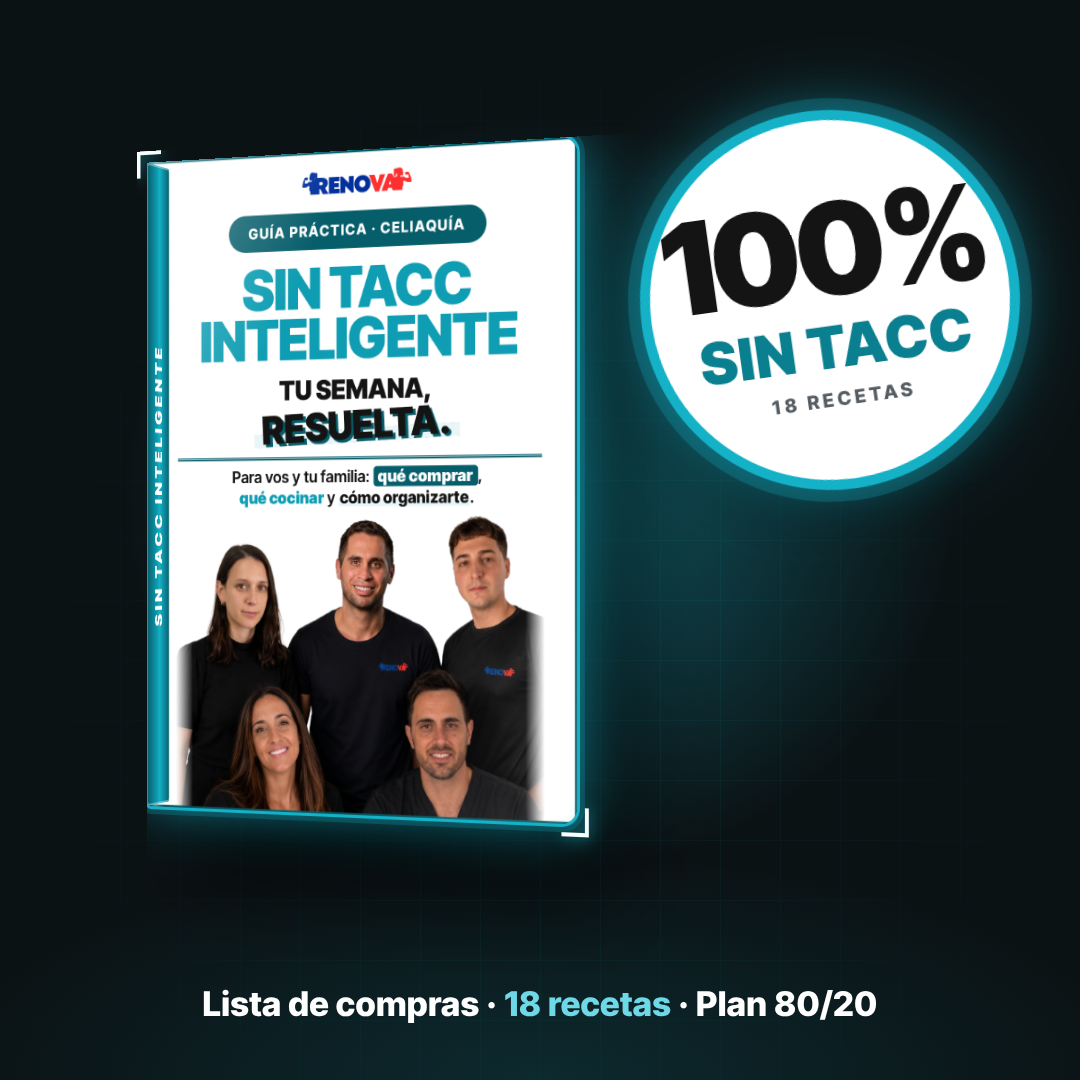
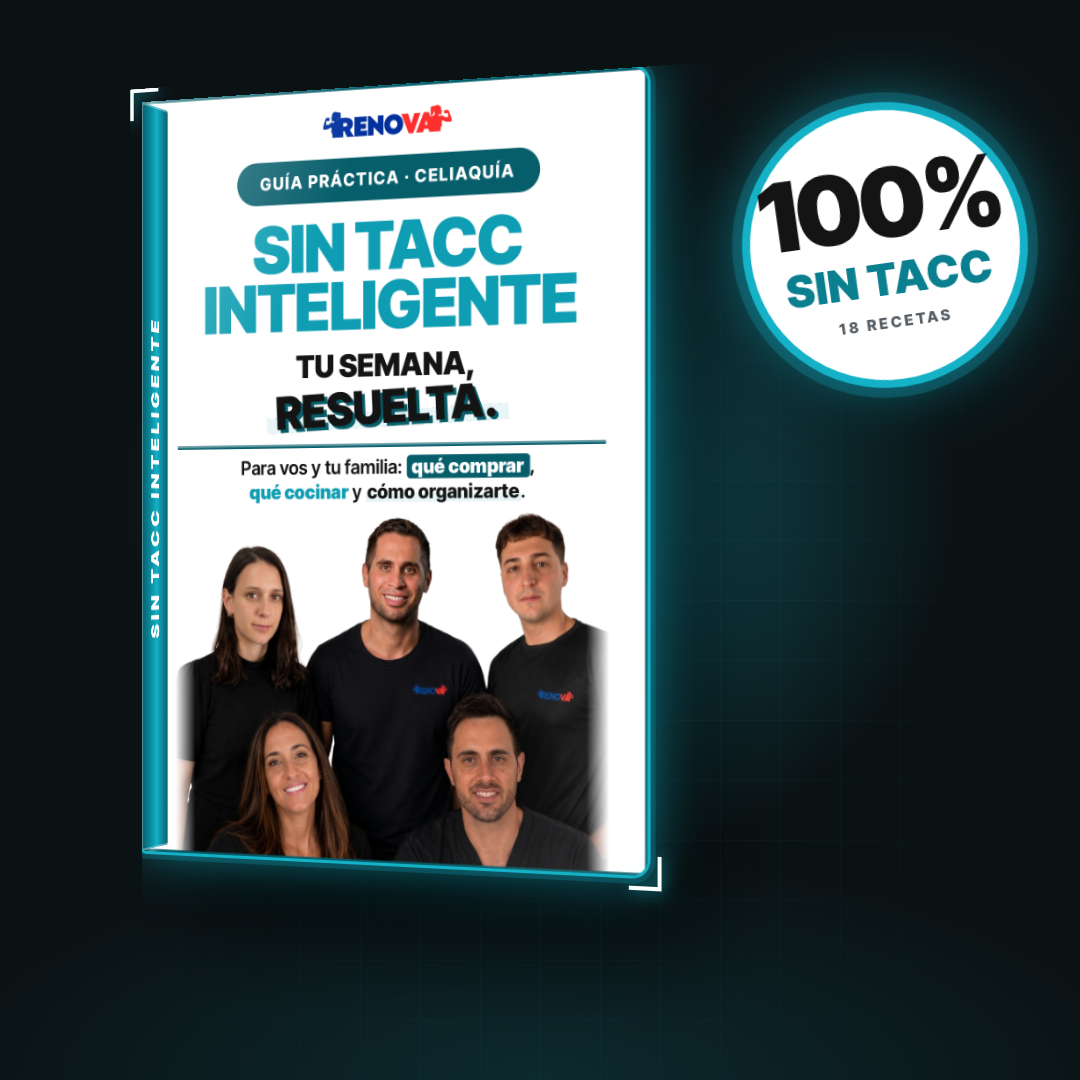
Portada del upsell Sin TACC: sin texto inferior, libro más grande y sello más chico para que no se corte
Claude-Session: https://claude.ai/code/session_016d9STMTFsB819XAn27rxwK

diff --git a/fuentes/landing/mockups/upsell_sintacc.html b/fuentes/landing/mockups/upsell_sintacc.html
@@ -114,12 +114,12 @@ body{width:var(--w);height:var(--h);overflow:hidden;position:relative;
 .cn.a{left:-2.5%;top:-1.8%;border-right:0;border-bottom:0}.cn.b{right:-2.5%;bottom:-1.8%;border-left:0;border-top:0}
 .shadow{position:absolute;height:70px;border-radius:50%;background:radial-gradient(ellipse,rgba(0,0,0,.75),transparent 70%)}
 
-.sello{position:absolute;right:70px;top:120px;width:360px;height:360px;border-radius:50%;z-index:9;
+.sello{position:absolute;right:60px;top:110px;width:270px;height:270px;border-radius:50%;z-index:9;
  background:#fff;display:flex;flex-direction:column;align-items:center;justify-content:center;text-align:center;
- box-shadow:0 0 0 10px #14B1C7,0 0 0 22px rgba(20,177,199,.25),0 0 70px rgba(20,177,199,.8),0 30px 60px rgba(0,0,0,.5);transform:rotate(-8deg)}
-.sello b{display:block;font:900 128px/0.95 InterTightW,sans-serif;color:#141414;letter-spacing:-.04em}
-.sello i{display:block;font:900 58px/1 InterTightW,sans-serif;font-style:normal;color:#0A7F90;letter-spacing:.02em;margin-top:8px}
-.sello small{display:block;margin-top:12px;font:800 19px InterW,sans-serif;letter-spacing:.16em;color:#555C62}
+ box-shadow:0 0 0 8px #14B1C7,0 0 0 18px rgba(20,177,199,.25),0 0 70px rgba(20,177,199,.8),0 30px 60px rgba(0,0,0,.5);transform:rotate(-8deg)}
+.sello b{display:block;font:900 96px/0.95 InterTightW,sans-serif;color:#141414;letter-spacing:-.04em}
+.sello i{display:block;font:900 44px/1 InterTightW,sans-serif;font-style:normal;color:#0A7F90;letter-spacing:.02em;margin-top:8px}
+.sello small{display:block;margin-top:12px;font:800 15px InterW,sans-serif;letter-spacing:.16em;color:#555C62}
 .pie{position:absolute;left:0;right:0;bottom:56px;text-align:center;z-index:9;font:800 34px InterTightW,sans-serif;color:#fff;letter-spacing:.01em}
 .pie span{color:#6FD8E6}
-body{--w:1080px;--h:1080px}</style><div class="grid"></div><div class="st"><div class="shadow" style="left:143.5px;top:795px;width:493.5px"></div><div class="bk" style="left:120px;top:150px;width:470px;height:665px;z-index:1;transform:rotateY(-20deg)"><div class="sp" style="width:47px;--fs:20px"><span>SIN TACC INTELIGENTE</span></div><div class="fr"><img src="pack/tapa_sintacc.png"></div><div class="cn a"></div><div class="cn b"></div></div><div class="sello"><b>100%</b><i>SIN TACC</i><small>18 RECETAS</small></div><div class="pie">Lista de compras · <span>18 recetas</span> · Plan 80/20</div></div>
+body{--w:1080px;--h:1080px}</style><div class="grid"></div><div class="st"><div class="shadow" style="left:137.5px;top:843px;width:577.5px"></div><div class="bk" style="left:110px;top:85px;width:550px;height:778px;z-index:1;transform:rotateY(-20deg)"><div class="sp" style="width:55px;--fs:23px"><span>SIN TACC INTELIGENTE</span></div><div class="fr"><img src="pack/tapa_sintacc.png"></div><div class="cn a"></div><div class="cn b"></div></div><div class="sello"><b>100%</b><i>SIN TACC</i><small>18 RECETAS</small></div></div>

diff --git a/fuentes/landing/mockups/upsell_sintacc.py b/fuentes/landing/mockups/upsell_sintacc.py
@@ -9,18 +9,17 @@ with contextlib.redirect_stdout(io.StringIO()):
     from libros3d import CSS, book   # mismo libro 3D y fondo que el resto de los mockups
 
 EXTRA = """
-.sello{position:absolute;right:70px;top:120px;width:360px;height:360px;border-radius:50%;z-index:9;
+.sello{position:absolute;right:60px;top:110px;width:270px;height:270px;border-radius:50%;z-index:9;
  background:#fff;display:flex;flex-direction:column;align-items:center;justify-content:center;text-align:center;
- box-shadow:0 0 0 10px #14B1C7,0 0 0 22px rgba(20,177,199,.25),0 0 70px rgba(20,177,199,.8),0 30px 60px rgba(0,0,0,.5);transform:rotate(-8deg)}
-.sello b{display:block;font:900 128px/0.95 InterTightW,sans-serif;color:#141414;letter-spacing:-.04em}
-.sello i{display:block;font:900 58px/1 InterTightW,sans-serif;font-style:normal;color:#0A7F90;letter-spacing:.02em;margin-top:8px}
-.sello small{display:block;margin-top:12px;font:800 19px InterW,sans-serif;letter-spacing:.16em;color:#555C62}
+ box-shadow:0 0 0 8px #14B1C7,0 0 0 18px rgba(20,177,199,.25),0 0 70px rgba(20,177,199,.8),0 30px 60px rgba(0,0,0,.5);transform:rotate(-8deg)}
+.sello b{display:block;font:900 96px/0.95 InterTightW,sans-serif;color:#141414;letter-spacing:-.04em}
+.sello i{display:block;font:900 44px/1 InterTightW,sans-serif;font-style:normal;color:#0A7F90;letter-spacing:.02em;margin-top:8px}
+.sello small{display:block;margin-top:12px;font:800 15px InterW,sans-serif;letter-spacing:.16em;color:#555C62}
 .pie{position:absolute;left:0;right:0;bottom:56px;text-align:center;z-index:9;font:800 34px InterTightW,sans-serif;color:#fff;letter-spacing:.01em}
 .pie span{color:#6FD8E6}
 """
-inner = (book("tapa_sintacc.png", "SIN TACC INTELIGENTE", 120, 150, 470, -20)
-         + '<div class="sello"><b>100%</b><i>SIN TACC</i><small>18 RECETAS</small></div>'
-         + '<div class="pie">Lista de compras · <span>18 recetas</span> · Plan 80/20</div>')
+inner = (book("tapa_sintacc.png", "SIN TACC INTELIGENTE", 110, 85, 550, -20)
+         + '<div class="sello"><b>100%</b><i>SIN TACC</i><small>18 RECETAS</small></div>')
 Path("upsell_sintacc.html").write_text(
     f'<!doctype html><meta charset="utf-8"><style>{CSS}{EXTRA}body{{--w:1080px;--h:1080px}}</style><div class="grid"></div><div class="st">{inner}</div>')
 print("ok")
